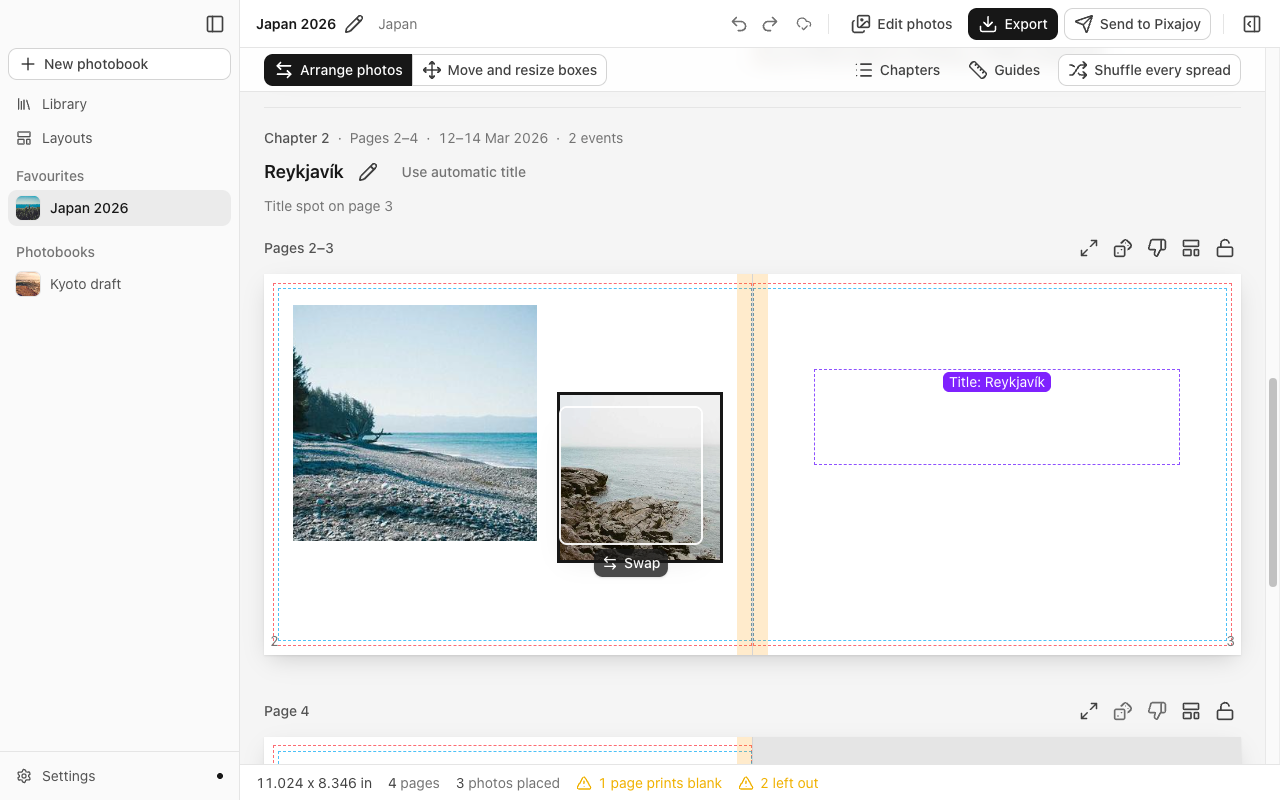
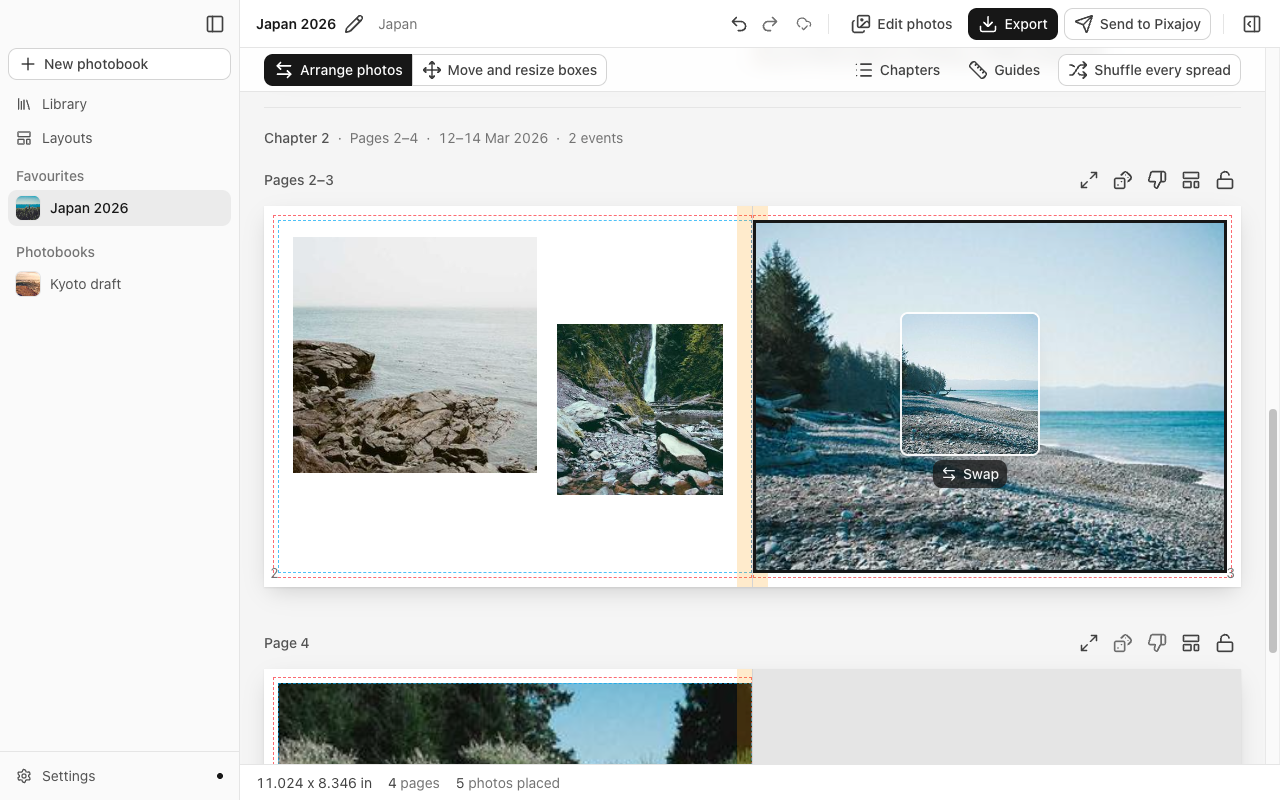
docs: drop chapter titles from the manual and README, retake two screenshots

diff --git a/docs/manual.md b/docs/manual.md
@@ -237,7 +237,7 @@ With the switch on, the contact sheet titles each chapter with its town, such as
 longitude, to Apple's map service. It never sends a photo, and it sends nothing while the
 switch is off. Names are kept on this Mac, so reopening a draft asks Apple nothing new. A
 chapter Apple cannot name, or any chapter while this Mac is offline, is titled by the dates
-its photos were taken, such as **12–14 Mar 2026**, the same title the book prints for it. A
+its photos were taken, such as **12–14 Mar 2026**. A
 chapter whose photos carry no date keeps its number, such as **Event 3**. With the switch
 off, every chapter is titled by its dates.
 
@@ -286,7 +286,7 @@ that book, with its decisions, print size, event tiers and **Split chapters by p
 restored once the analysis is done (**Edit photos** again reopens the same draft), and the
 generate control becomes two: **Update "<name>"** asks you to confirm, then builds the book
 again from these photos and settings. Changes you made in the editor -- swapped or replaced
-photos, crops, layouts, moved boxes, the cover, chapter titles you typed, and photos added
+photos, crops, layouts, moved boxes, the cover, and photos added
 from disk -- are replaced;
 its undo history, export history and favourite star don't carry over, though files you
 already exported are not touched. **Save as a new photobook** keeps both. Adding or taking out
@@ -297,7 +297,7 @@ update of the old one.
 
 ## 3. Editing the book
 
-![The book editor with both cover panels filled, the first chapter title, and the chat](screenshots/editor.png)
+![The book editor with both cover panels filled and the chat](screenshots/editor.png)
 
 The book, spread by spread, as it will print. **Everything on this screen is written to disk
 as you do it** (the cloud with a check, beside Undo and Redo, says it has saved; it reads **Saving…** while a change is being written), so there is nothing to
@@ -344,24 +344,12 @@ bar above the book. When the editor is narrow (the chat open in a small window),
 shows its buttons as icons; hover one for its name or, for the two modes, what a drag does.
 
 Each chapter starts with a heading above its first opening. The heading gives the chapter
-number, its pages, its dates (when the title is not already the dates) and how many events
-it merges. Below that are the chapter's title and, under it, the page its title spot is on.
-A book with two or more chapters also has a **Chapters** menu (the list icon) in the bar
-above the book. It lists every chapter's title and pages; pick one to scroll to it.
+number, its pages, its dates and how many events it merges. A book with two or more chapters
+also has a **Chapters** menu (the list icon) in the bar above the book. It lists every chapter
+and its pages; pick one to scroll to it.
 
-Titles are a guide, not part of the printed book: export never draws them. On the page, a
-violet dashed box marks the **title spot**, with a tag naming the title, so you can see where
-it would go if you add it in Pixajoy. The **Guides** legend lists it with the trim and safe
-lines. When the opening has no empty space for it, the spot sits over a photo and the
-heading says so.
-
-To **change a chapter's title**, press the pencil beside it, type, and press Enter. Clicking
-away also saves; Esc leaves the title as it was. Clear the box and save for no title: the
-heading then reads **No title** and the page shows no title spot. A title you have typed
-stays through **Regenerate** and **Shuffle**, but not through **Update** after **Edit
-photos**, which rebuilds the book. Undo takes it back like any other change. **Use automatic
-title** goes back to the place name or dates, and typing the automatic title back does the
-same. How to add a title in Pixajoy is under **Chapter titles** further down.
+The book prints no text: no chapter titles, captions or page numbers. Add any words you want
+in Pixajoy's editor after sending or exporting.
 
 Every opening (page 1, each pair of facing pages, the last page) has four controls on its
 right. Page 1 is shown facing the inside front cover and the last page facing the inside
@@ -611,8 +599,7 @@ three parts:
   email. The sign-in is kept in the macOS Keychain, never in a file, and lasts until Pixajoy
   ends it. **Sign out** forgets it, and signing in again can use another account.
 - **What happens.** A new project is created, each of the book's photos is uploaded whole to
-  Pixajoy's servers, once, and nothing is ordered. A later send reuses it. Chapter titles go onto their pages as text you
-  can edit on Pixajoy.
+  Pixajoy's servers, once, and nothing is ordered. A later send reuses it.
 - **Pages.** How many pages the Pixajoy project gets. Pixajoy's landscape book needs at least
   20 pages and an even count, so a shorter or odd book gets blank pages added at the end, and
   the dialog says how many. A book over 150 pages, or one whose print size is not Pixajoy's
@@ -627,42 +614,20 @@ account, at any time and from any book, is not uploaded again: the app keeps whi
 photo each of your photos became (a fingerprint of the file and Pixajoy's photo number, never
 the image), and Pixajoy adds it to the new project. If you deleted it from Pixajoy since, it
 is uploaded again. Every successful send is recorded with the book: which Pixajoy project it
-made and which photo went in which box. Deleting the book deletes that record. Each chapter title becomes a text box in its title spot, in black
-Arial at the suggested size, above the photos. Edit or move it in Pixajoy's editor like any
-other text box. The front and back cover photos go into Pixajoy's cover boxes. The
+made and which photo went in which box. Deleting the book deletes that record. No text is sent: the project holds photo boxes
+only. The front and back cover photos go into Pixajoy's cover boxes. The
 dialog shows each step and cannot be closed while it runs; the temporary folder is deleted
 when the send ends. When it finishes, **Open My Projects** opens Pixajoy's project list in your
 browser. If a send fails after the project was created, the message names it: a partly
 filled project with that name may be in My Projects, and you can delete it there.
 
-**Chapter titles.** The book is divided into chapters, and each chapter has a title and a
-title spot on the opening where it starts. **Send to Pixajoy** puts each title in its title
-spot as a text box. **Export** does not, so after an export you add titles yourself in
-Pixajoy. A chapter starts on an opening whose first photo, read left to right
-and top to bottom, comes from an event no earlier page has shown. An event that first appears
-part-way through an opening joins the chapter already running, so one spread never carries
-two titles. The title is the place name when the book was made with **Places** on and that
-place's name has already been looked up; titles never trigger a lookup of their own.
-Otherwise it is the dates the chapter's photos were taken, in the camera's local time, for
-example "12–14 Mar 2026", "28 Mar – 2 Apr 2026" or "30 Dec 2025 – 2 Jan 2026". A chapter
-with no capture dates is called "Chapter 2", and so on. The cover carries no text.
-
-Where the title spot goes is chosen in this order:
-
-1. The text area of a layout drawn with one, unless a photo has been moved onto it.
-2. The tallest clear strip across the top or bottom of either page of the opening, at least
-   0.35 in tall. It stays inside the safe margin, keeps out of the fold, and is never more
-   than 1 in tall.
-3. The widest clear column beside the photos, at least 1.5 in wide. Portrait pairs leave
-   one.
-4. Otherwise a strip across the top of the opening's first page, on top of a photo. The
-   chapter heading says so, so you can decide where to put the title, or leave it out.
-
-The suggested type size is between 14 and 28 pt, to suit the space.
-
-Export carries no titles: they are not drawn into the photo files, `manifest.json` holds no
-text, and the **Export** sheet does not list them. To add one after an export, open that page in Pixajoy's
-editor, add a text box, type the title, and place it where the editor shows the title spot.
+**Chapters.** The book is divided into chapters. A chapter starts on an opening whose first
+photo, read left to right and top to bottom, comes from an event no earlier page has shown. An
+event that first appears part-way through an opening joins the chapter already running, so a
+chapter never starts mid-spread. Chapters shape the editor's headings and the **Chapters**
+menu only. Nothing about them prints: the book carries no text, on the pages or the cover, and
+neither **Export** nor **Send to Pixajoy** adds any. To add a title or caption, use a text box
+in Pixajoy's editor.
 
 ## 4. Layouts
 

diff --git a/docs/PROJECT-STATUS.md b/docs/PROJECT-STATUS.md
@@ -66,10 +66,10 @@ API: `docs/providers/pixajoy.md`. Manual: "3. Editing the book".
 
 **Verified live, from the test only.** `providers::pixajoy::live` (ignored by default; needs
 `PIXAJOY_TOKEN`) passed on 2026-11-09. It created a project, uploaded two photos, saved the
-diff, reloaded the project and checked every box and a chapter title. The title
-`Kyoto, März <3 & >` came back byte for byte. Three test projects exist in that account
+diff, reloaded the project and checked every box. (It then also checked a chapter title,
+which came back byte for byte; titles were removed on 2026-11-09, below.) Three test projects exist in that account
 ("PhotobookGen test 2026-11-09 …"): one left empty by the pageData bug below, two filled.
-**Not verified:** how the title renders in Pixajoy's editor, the sign-in window, and the
+**Not verified:** the sign-in window, and the
 in-app send in the packaged app.
 
 The two earlier failures, and their fixes:
@@ -104,11 +104,7 @@ The two earlier failures, and their fixes:
   The 5 % is for books saved under the old 11.197 × 8.894 default, which are 2 % off.
 - **Page count is fixed at creation.** It is `max(pages, 20)` rounded up to even, at most
   150. Padding pages are left blank.
-- **Chapter titles go as cloned cover text boxes.** `plan.rs` copies the cover's
-  unprotected text box, puts it on the title's page above the photos, and replaces only
-  `styledtext.data`. The length in that string counts UTF-16 units, so "🗻" is 2. A project
-  with no such cover box fails the send. Titles are black Arial; the app has no font or
-  colour for them yet.
+- **No text is sent.** The project holds photo boxes only (titles were removed 2026-11-09).
 - **`PrintSpec::pixajoy()` is now Taopix's IHL8511 page**, taken from `load`'s `layout`:
   11.22047 × 8.74016 in, bleed 5 mm, `gutter_in` 9 mm (half the 18 mm `gutterwidth`, since
   the band is measured from each page's fold). Stored books keep their old spec. PrintSpec
@@ -251,6 +247,16 @@ cover; reordering within a chapter only; the UI stays monochrome).
   carries no text: `ManifestPage::texts`/`ManifestText` and the export sheet's title list are
   gone (an older manifest with `texts` still deserialises). A titled half no longer counts as
   occupied, so `blank` means what prints white.
+- **Titles removed entirely** (2026-11-09, user: "the title thing is superficial", then
+  "remove the titles from the app completely automatic title generation too"). Gone: the
+  title spot and its Guides entry, typed and automatic titles, `BookEdit::SetChapterTitle`,
+  `Book::titles` (an old book with `titles` still loads; serde ignores it), the Pixajoy title
+  text boxes, `place_names::cached_chapter_names`, and template `text_zones` with
+  `TextZone`/`Align` (`RawTemplate` still accepts an old file carrying the key).
+  `book::titles` became `book::chapter_pages`: where chapters land, nothing more. Chapter
+  headings and the Chapters menu stay, as number, pages, dates and event count. Geocoded
+  event names stay on the select screen. Consequence: a page that held only a title, such as
+  the empty half of 03/04 "hero-…-text-…", now reports `blank` and the editor says so.
 - **Crowded layouts** (user screenshot: a five-photo bleed mosaic with photos butted together).
   The ten zero-gap bleed templates (21, 22, 25, 44, 46, 49, 50, 52, 54, 56) now keep a 0.2"
   gutter between neighbouring photos on a page, the margin layouts' spacing; outer bleed edges
@@ -269,7 +275,7 @@ cover; reordering within a chapter only; the UI stays monochrome).
 **Measured after the revert and the gutters** (`book_report --db <copy> 14 10 16`; projects 14
 Iceland, 10 Vietnam, 16 Japan -- 15 is now in the trash, 16 is the same 1133 photos; seeds
 7/1234/99 identical). `blank_pages`, `dropped` and `floor_misses` are identical with and without
-the gutters on every row; the gutters move only `title_overlaps` (14: 3→2 and 5→4; 16: 2→3
+the gutters on every row; the gutters move only `title_overlaps` (a column removed with titles) (14: 3→2 and 5→4; 16: 2→3
 and 5→6). `--scenarios 14` 9/9 PASS; `--stability 14 10 16` 0 moved their own event.
 
 | project, pages | opener_hit | closer_hit | chrono_inv | role_cov | chapters | title_overlaps | blank_pages |
@@ -288,15 +294,9 @@ footer warns), unchanged from the baseline.
 
 **Still open, measured rather than assumed:**
 
-- **Title spots over photos.** 4 of Iceland's 12 title spots at 40 pages have no clear band
-  and sit on a photo (the chapter heading flags them). Less urgent now titles never print,
-  but the scorer still does not prefer layouts that leave a band.
 - **Closers on Vietnam** stay at 0: its chapters are short, and the closer rule needs four
   photos and a calm frame in the last 40%.
 - **Soft event boundaries (plan U7) were skipped**: `mixed_spreads` totals 30 over 18 books.
-- **Typed titles are not carried into a rebuilt book.** Regenerate and Shuffle keep them;
-  **Edit photos** → Update builds a new `Book` with an empty `titles`. The plan's
-  `carry_titles` (match chapters by member overlap) was not built.
 - **Whether the book now reads like a story** is the user's call, not a metric.
 
 ---

diff --git a/README.md b/README.md
@@ -15,7 +15,7 @@
 </p>
 
 <p align="center">
-  <img src="docs/screenshots/editor.png" alt="The book editor with the front and back cover filled, the first chapter's title, and the chat offering a change" width="900" />
+  <img src="docs/screenshots/editor.png" alt="The book editor with the front and back cover filled and the chat offering a change" width="900" />
 </p>
 
 Pick your photo folders. PhotobookGen ranks every photo with Apple Vision, drops look-alikes
@@ -32,10 +32,10 @@ photo went. Add more folders, pick a length, and generate.
 
 ## A book that reads like a story
 
-<img src="docs/screenshots/drag-swap.png" alt="A chapter titled Reykjavík, with a photo being dragged onto another and a Swap label under it" width="900" />
+<img src="docs/screenshots/drag-swap.png" alt="A full spread, with a photo being dragged onto another and a Swap label under it" width="900" />
 
-Chapters open on a wide shot and close on a calm one, with a title you can edit printed on
-the opening. Drag a photo onto another to swap them, onto another spread to move it, or onto
+Chapters open on a wide shot and close on a calm one, and every page is filled with photos,
+not text. Drag a photo onto another to swap them, onto another spread to move it, or onto
 the cover. Edits that would cut a face or print blurry are refused with the reason.
 
 <table>
@@ -66,7 +66,7 @@ the cover. Edits that would cut a face or print blurry are refused with the reas
 
 <img src="docs/screenshots/send-to-pixajoy.png" alt="The Send to Pixajoy dialog after a send, with Open My Projects" width="900" />
 
-One click creates a Pixajoy project with every page, crop, cover and chapter title in place,
+One click creates a Pixajoy project with every page, crop and cover in place,
 ready to review and order. Each photo uploads once. A later send reuses it. Nothing is ever
 ordered for you.
 
@@ -78,7 +78,7 @@ photo plus a `manifest.json`.
 - **Your whole shelf.** Every book in one library, with favourites, search and drafts.
 - **Front and back cover.** Picked and cropped for you, wrap included, with a spine colour
   taken from the front photo.
-- **Chapters by place.** Optional. A move of more than 25 km ends a chapter, titled with its town.
+- **Chapters by place.** Optional. A move of more than 25 km ends a chapter, and the photo screen names it by its town.
 - **Optional AI chat.** Ask for a change in plain words. Every edit waits for your approval.
   Uses your own DeepSeek key.
 - **Sharper previews** when you want them, set under **Settings → General → Graphics**.
